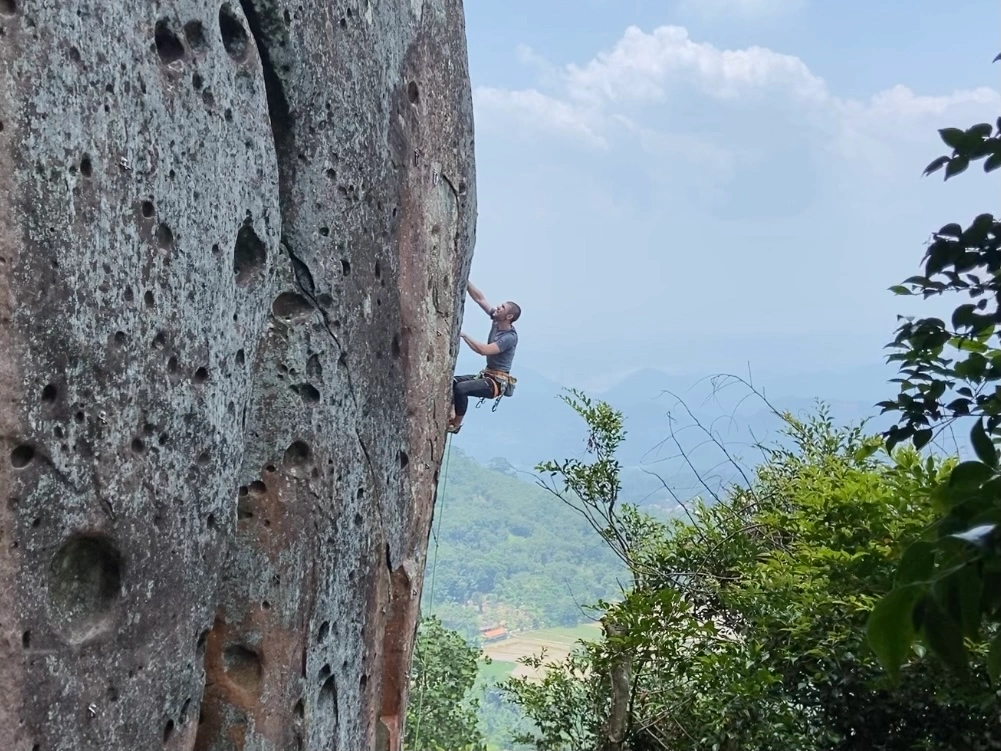
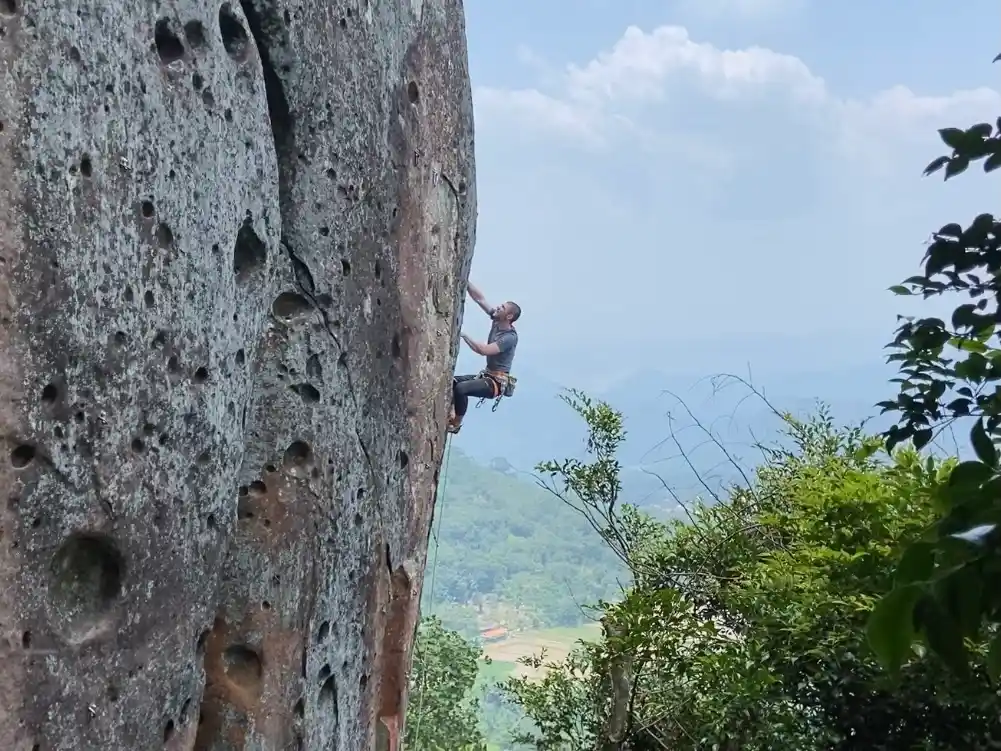
Reduce loading times by compressing images, add new DynamicElement to be included later and update Experience

Changed region(s): [[0.6813, 0.7044, 0.7123, 0.735]]

diff --git a/islands/DynamicElement.tsx b/islands/DynamicElement.tsx
@@ -1,0 +1,171 @@
+import { Component, createRef } from "preact";
+import { h } from "preact";
+import * as THREE from 'three';
+import Stats from 'three/examples/jsm/libs/stats.module.js';
+
+interface ThreeJSComponentProps {}
+
+interface ThreeJSComponentState {
+    stats: Stats | null;
+    camera: THREE.OrthographicCamera | null;
+    scene: THREE.Scene | null;
+    raycaster: THREE.Raycaster | null;
+    renderer: THREE.WebGLRenderer | null;
+    pointer: THREE.Vector2;
+    radius: number;
+    frustumSize: number;
+}
+
+class ThreeJSComponent extends Component<ThreeJSComponentProps, ThreeJSComponentState> {
+    private containerRef = createRef<HTMLDivElement>();
+    private theta: number = 0;
+    private INTERSECTED: THREE.Mesh | null = null;
+
+    constructor(props: ThreeJSComponentProps) {
+        super(props);
+        this.state = {
+            stats: null,
+            camera: null,
+            scene: null,
+            raycaster: null,
+            renderer: null,
+            pointer: new THREE.Vector2(),
+            radius: 25,
+            frustumSize: 50
+        };
+    }
+
+    componentDidMount() {
+        const { pointer, radius, frustumSize } = this.state;
+
+        const aspect = window.innerWidth / window.innerHeight;
+        const camera = new THREE.OrthographicCamera(frustumSize * aspect / -2, frustumSize * aspect / 2, frustumSize / 2, frustumSize / -2, 0.1, 100);
+        camera.position.z = 25;
+
+        const scene = new THREE.Scene();
+        scene.background = new THREE.Color(0xf0f0f0);
+
+        const light = new THREE.DirectionalLight(0xffffff, 3);
+        light.position.set(1, 1, 1).normalize();
+        scene.add(light);
+
+        const geometry = new THREE.BoxGeometry();
+
+        for (let i = 0; i < 2000; i++) {
+            const object = new THREE.Mesh(geometry, new THREE.MeshLambertMaterial({ color: Math.random() * 0xffffff }));
+            object.position.x = Math.random() * 40 - 20;
+            object.position.y = Math.random() * 40 - 20;
+            object.position.z = Math.random() * 40 - 20;
+            object.rotation.x = Math.random() * 2 * Math.PI;
+            object.rotation.y = Math.random() * 2 * Math.PI;
+            object.rotation.z = Math.random() * 2 * Math.PI;
+            object.scale.x = Math.random() + 0.5;
+            object.scale.y = Math.random() + 0.5;
+            object.scale.z = Math.random() + 0.5;
+            scene.add(object);
+        }
+
+        const raycaster = new THREE.Raycaster();
+
+        const renderer = new THREE.WebGLRenderer({ antialias: true });
+        renderer.setPixelRatio(window.devicePixelRatio);
+        renderer.setSize(window.innerWidth * 0.25, window.innerHeight * 0.25);
+
+        if (this.containerRef.current) {
+            this.containerRef.current.appendChild(renderer.domElement);
+        }
+
+        const stats = new Stats();
+        document.body.appendChild(stats.dom);
+
+        this.setState({
+            stats,
+            camera,
+            scene,
+            raycaster,
+            renderer
+        });
+
+        document.addEventListener('pointermove', this.onPointerMove);
+        window.addEventListener('resize', this.onWindowResize);
+        renderer.setAnimationLoop(this.animate);
+    }
+
+    componentWillUnmount() {
+        const { stats, renderer } = this.state;
+        if (stats) document.body.removeChild(stats.dom);
+        document.removeEventListener('pointermove', this.onPointerMove);
+        window.removeEventListener('resize', this.onWindowResize);
+        if (renderer) renderer.setAnimationLoop(null);
+    }
+
+    onWindowResize = () => {
+        const { camera, renderer } = this.state;
+        const aspect = window.innerWidth / window.innerHeight;
+        if (camera) {
+            camera.left = -this.state.frustumSize * aspect / 2;
+            camera.right = this.state.frustumSize * aspect / 2;
+            camera.top = this.state.frustumSize / 2;
+            camera.bottom = -this.state.frustumSize / 2;
+            camera.updateProjectionMatrix();
+        }
+        if (renderer) {
+            renderer.setSize(window.innerWidth * 0.25, window.innerHeight * 0.25);
+        }
+    }
+
+    onPointerMove = (event: MouseEvent) => {
+        const pointer = new THREE.Vector2();
+        pointer.x = (event.clientX / window.innerWidth) * 2 - 1;
+        pointer.y = -(event.clientY / window.innerHeight) * 2 + 1;
+        this.setState({ pointer });
+    }
+
+    animate = () => {
+        this.renderScene();
+        if (this.state.stats) this.state.stats.update();
+    }
+
+    renderScene = () => {
+        const { camera, scene, raycaster, renderer, pointer, radius } = this.state;
+
+        this.theta += 0.1;
+
+        if (camera) {
+            camera.position.x = this.state.radius * Math.sin(THREE.MathUtils.degToRad(this.theta));
+            camera.position.y = this.state.radius * Math.sin(THREE.MathUtils.degToRad(this.theta));
+            camera.position.z = this.state.radius * Math.cos(THREE.MathUtils.degToRad(this.theta));
+            camera.lookAt(scene!.position);
+            camera.updateMatrixWorld();
+        }
+
+        if (raycaster) {
+            raycaster.setFromCamera(pointer, camera!);
+            const intersects = raycaster.intersectObjects(scene!.children, false);
+
+            if (intersects.length > 0) {
+                if (this.INTERSECTED !== intersects[0].object) {
+                    if (this.INTERSECTED) (this.INTERSECTED as THREE.Mesh).material.emissive.setHex((this.INTERSECTED as THREE.Mesh).currentHex);
+                    this.INTERSECTED = intersects[0].object as THREE.Mesh;
+                    this.INTERSECTED.currentHex = (this.INTERSECTED as THREE.Mesh).material.emissive.getHex();
+                    (this.INTERSECTED as THREE.Mesh).material.emissive.setHex(0xff0000);
+                }
+            } else {
+                if (this.INTERSECTED) (this.INTERSECTED as THREE.Mesh).material.emissive.setHex((this.INTERSECTED as THREE.Mesh).currentHex);
+                this.INTERSECTED = null;
+            }
+        }
+
+        if (renderer && scene && camera) {
+            renderer.render(scene, camera);
+        }
+    }
+
+    render() {
+        return (
+            <div ref={this.containerRef} />
+        );
+    }
+}
+
+export default ThreeJSComponent;

diff --git a/routes/_app.tsx b/routes/_app.tsx
@@ -106,38 +106,38 @@ export default function App({ Component }: PageProps) {
           }}
         />
       </head>
-      <body className="min-h-screen flex flex-col max-w-screen-xl mx-auto">
+      <body className="min-h-screen flex flex-col max-w-screen-xl mx-auto overflow-x-hidden">
         <header>
           <AppBar />
         </header>
-        <main>
+        <main className="flex-grow">
           <Component />
         </main>
-        <footer className="mt-auto footer w-auto m-2 p-4 bg-neutral text-neutral-content rounded-lg">
-          <aside>
-            <span>
+        <footer className="mt-auto w-full m-2 p-4 bg-neutral text-neutral-content rounded-lg">
+          <aside className="flex flex-col md:flex-row md:justify-between md:items-center w-full">
+            <span className="mb-2 md:mb-0">
               <a
                 href="https://github.com/rodelvr/rodel-portfolio.github.io"
                 target="_blank"
                 rel="noopener noreferrer"
                 className="text-gray-300 hover:underline"
               >
-                Source
+                <Icon icon="ic:outline-source" width="24" height="24" />
               </a>
             </span>
+            <nav className="flex justify-center gap-4">
+              {socials.map((social) => (
+                <a
+                  href={social.url}
+                  target="_blank"
+                  aria-label={social.name}
+                  key={social.name}
+                >
+                  <Icon icon={social.icon} width="24" height="24" />
+                </a>
+              ))}
+            </nav>
           </aside>
-          <nav className="grid-flow-col gap-4 md:place-self-center md:justify-self-end">
-            {socials.map((social) => (
-              <a
-                href={social.url}
-                target="_blank"
-                aria-label={social.name}
-                key={social.name}
-              >
-                <Icon icon={social.icon} width="24" height="24" />
-              </a>
-            ))}
-          </nav>
         </footer>
       </body>
     </html>

diff --git a/islands/Experience.tsx b/islands/Experience.tsx
@@ -1,4 +1,4 @@
-import { useState } from "preact/hooks";
+import { useState, useRef } from "preact/hooks";
 
 interface JobExperience {
   title: string;
@@ -18,6 +18,11 @@ interface CompanyExperience {
 
 function JobDetails({ job }: { job: JobExperience }) {
   const [isExpanded, setIsExpanded] = useState(false);
+  const detailsRef = useRef<HTMLDivElement>(null);
+
+  const toggleExpand = () => {
+    setIsExpanded(!isExpanded);
+  };
 
   // Split the details by newlines to create paragraphs
   const detailsParagraphs = job.details
@@ -42,12 +47,18 @@ function JobDetails({ job }: { job: JobExperience }) {
       <p className="job-time-period mb-1">{jobTimePeriod}</p>
       <p className="job-location">{job.location}</p>
       <button
-        onClick={() => setIsExpanded(!isExpanded)}
+        onClick={toggleExpand}
         className="btn btn-primary text-base-100 mt-2 btn-sm"
       >
         {isExpanded ? "Show less" : "Read more"}
       </button>
-      {isExpanded && detailsParagraphs}
+      <div
+        ref={detailsRef}
+        className="job-details"
+        style={{ maxHeight: isExpanded ? `${detailsRef.current?.scrollHeight}px` : 0 }}
+      >
+        {detailsParagraphs}
+      </div>
     </div>
   );
 }
@@ -62,7 +73,7 @@ export default function Experience() {
       jobs: [
         {
           title: "Founding Engineer",
-          timePeriod: "Jul 2023 - now",
+          timePeriod: "Jul 2023 - Jun 2024",
           location: "Utrecht, Netherlands",
           description: "Read more",
           details: `

diff --git a/fresh.gen.ts b/fresh.gen.ts
@@ -9,6 +9,7 @@ import * as $api_themes_index from "./routes/api/themes/index.ts";
 import * as $index from "./routes/index.tsx";
 import * as $AppBar from "./islands/AppBar.tsx";
 import * as $Blogs from "./islands/Blogs.tsx";
+import * as $DynamicElement from "./islands/DynamicElement.tsx";
 import * as $Experience from "./islands/Experience.tsx";
 import * as $Hero from "./islands/Hero.tsx";
 import * as $SpinningModel from "./islands/SpinningModel.tsx";
@@ -29,6 +30,7 @@ const manifest = {
   islands: {
     "./islands/AppBar.tsx": $AppBar,
     "./islands/Blogs.tsx": $Blogs,
+    "./islands/DynamicElement.tsx": $DynamicElement,
     "./islands/Experience.tsx": $Experience,
     "./islands/Hero.tsx": $Hero,
     "./islands/SpinningModel.tsx": $SpinningModel,

diff --git a/static/styles.css b/static/styles.css
@@ -54,8 +54,13 @@ iconify-icon svg {
 }
 
 .job-experience.expanded {
-  max-height: 1000px;
+  max-height: 1500px;
   /* Expanded height */
+}
+
+.job-details {
+  overflow: hidden;
+  transition: max-height 0.3s ease-in-out; /* Add transition for max-height */
 }
 
 .horizontal-separator {
